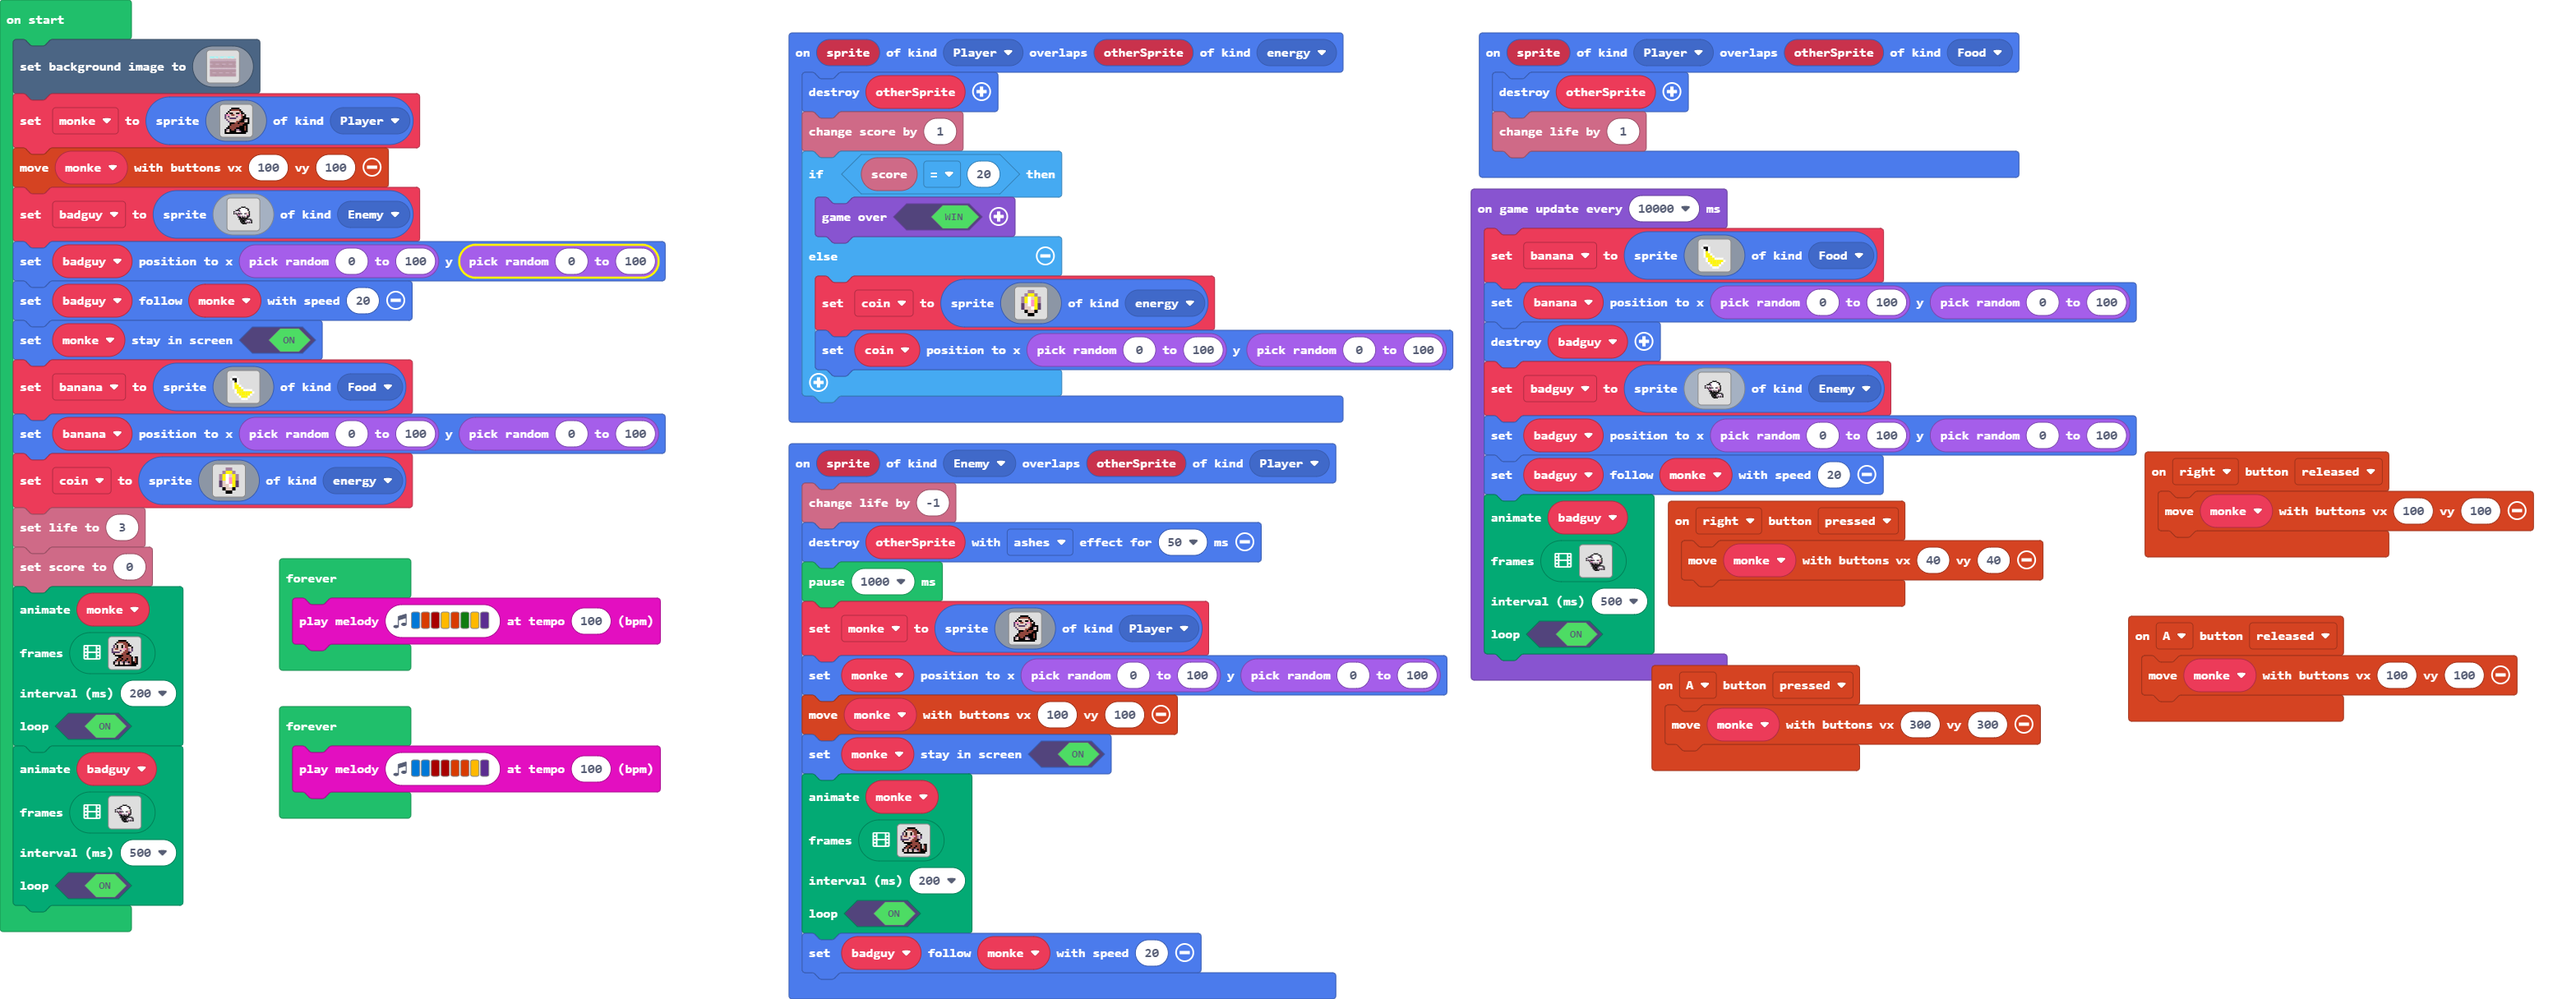
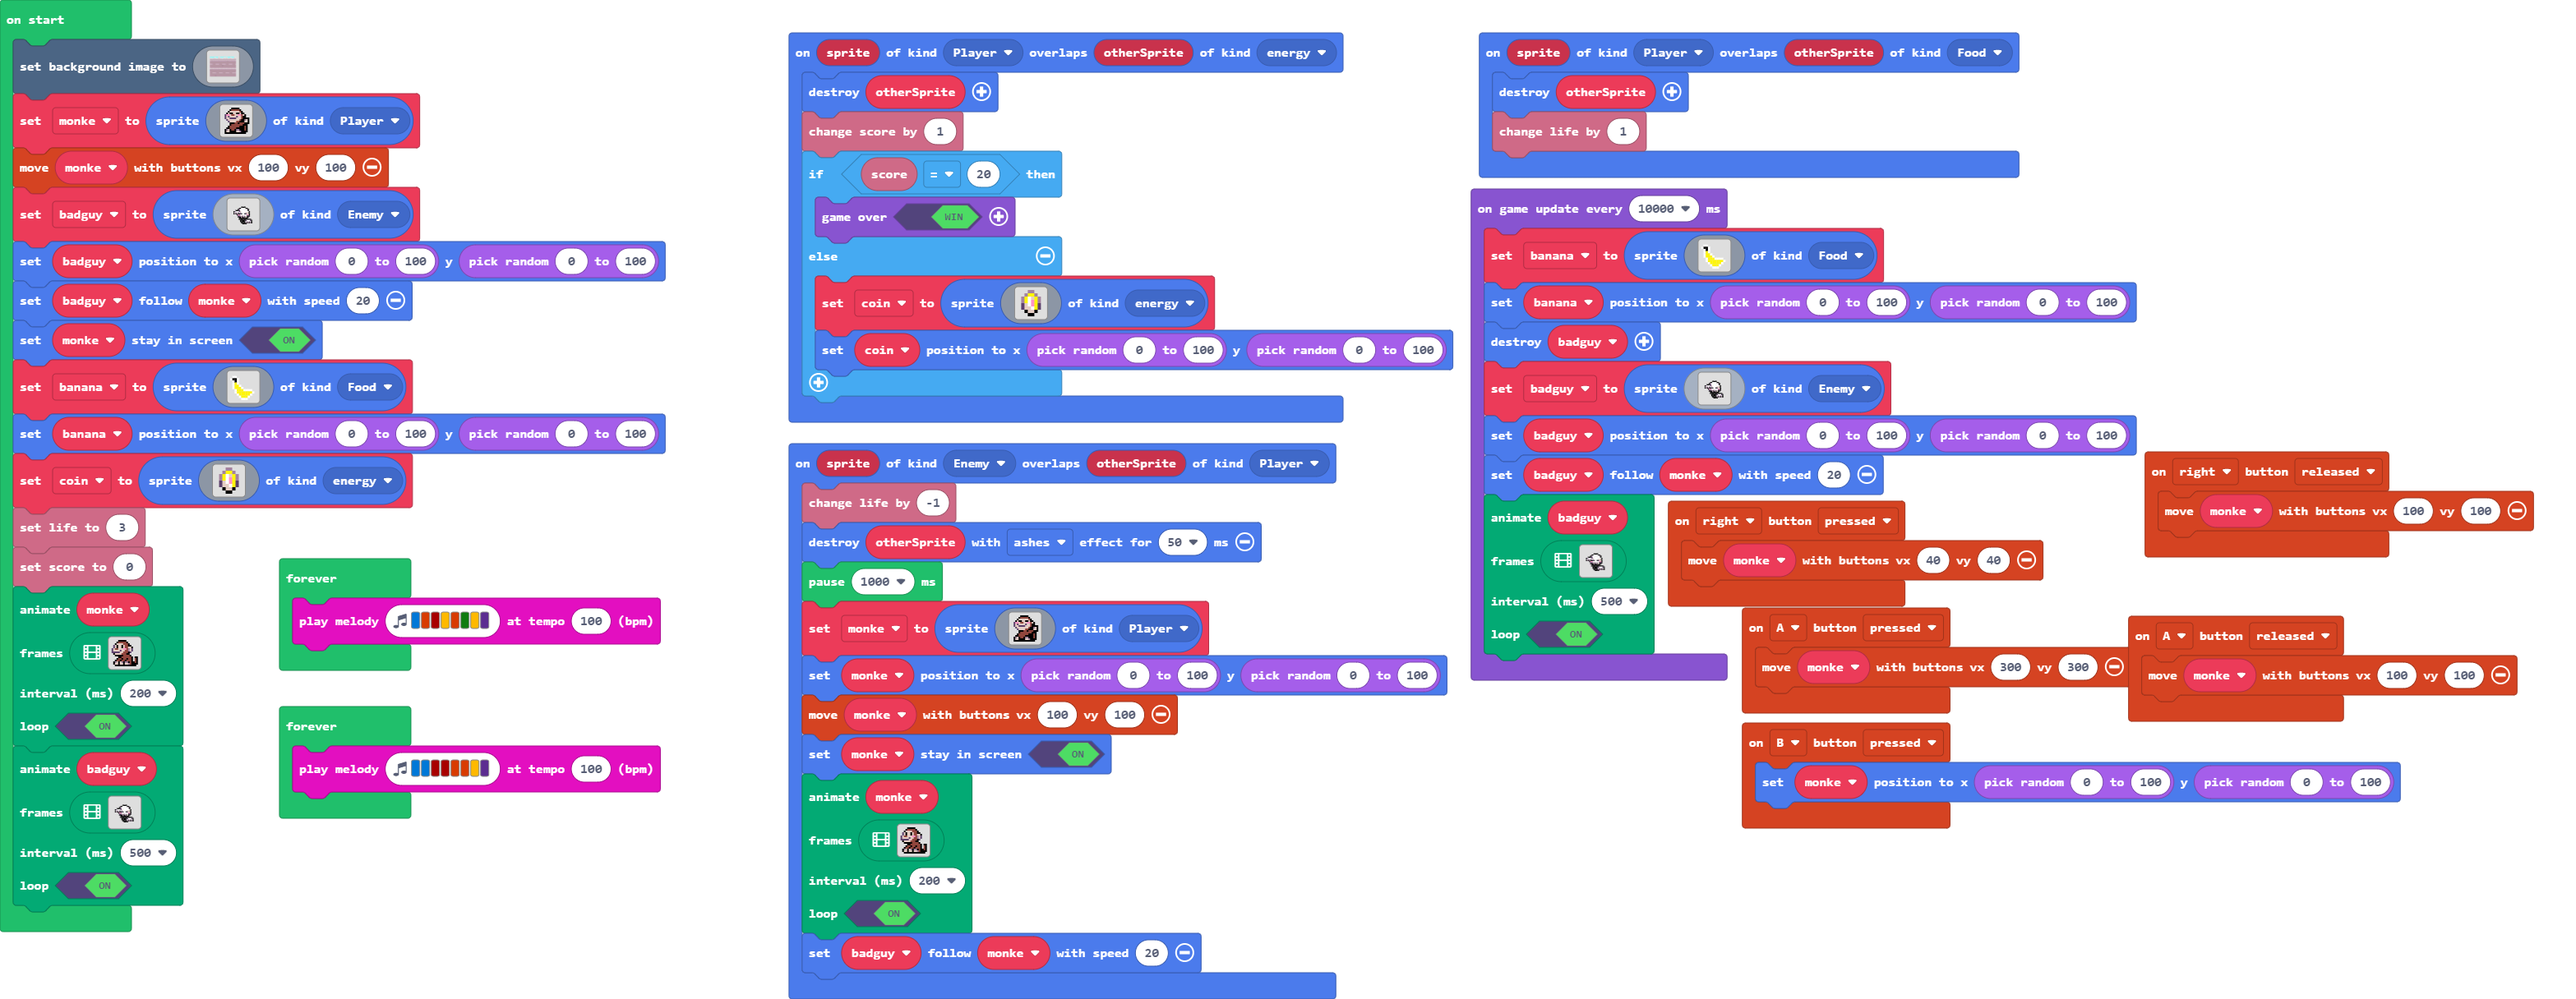
Update main.blocks, main.ts

Changed region(s): [[0.619, 0.5938, 0.9285, 0.8438], [0.1857, 0.2188, 0.2476, 0.2812]]

diff --git a/main.ts b/main.ts
@@ -1,6 +1,9 @@
 namespace SpriteKind {
     export const energy = SpriteKind.create()
 }
+controller.B.onEvent(ControllerButtonEvent.Pressed, function () {
+    monke.setPosition(randint(0, 100), randint(0, 100))
+})
 sprites.onOverlap(SpriteKind.Player, SpriteKind.energy, function (sprite, otherSprite) {
     otherSprite.destroy()
     info.changeScoreBy(1)
